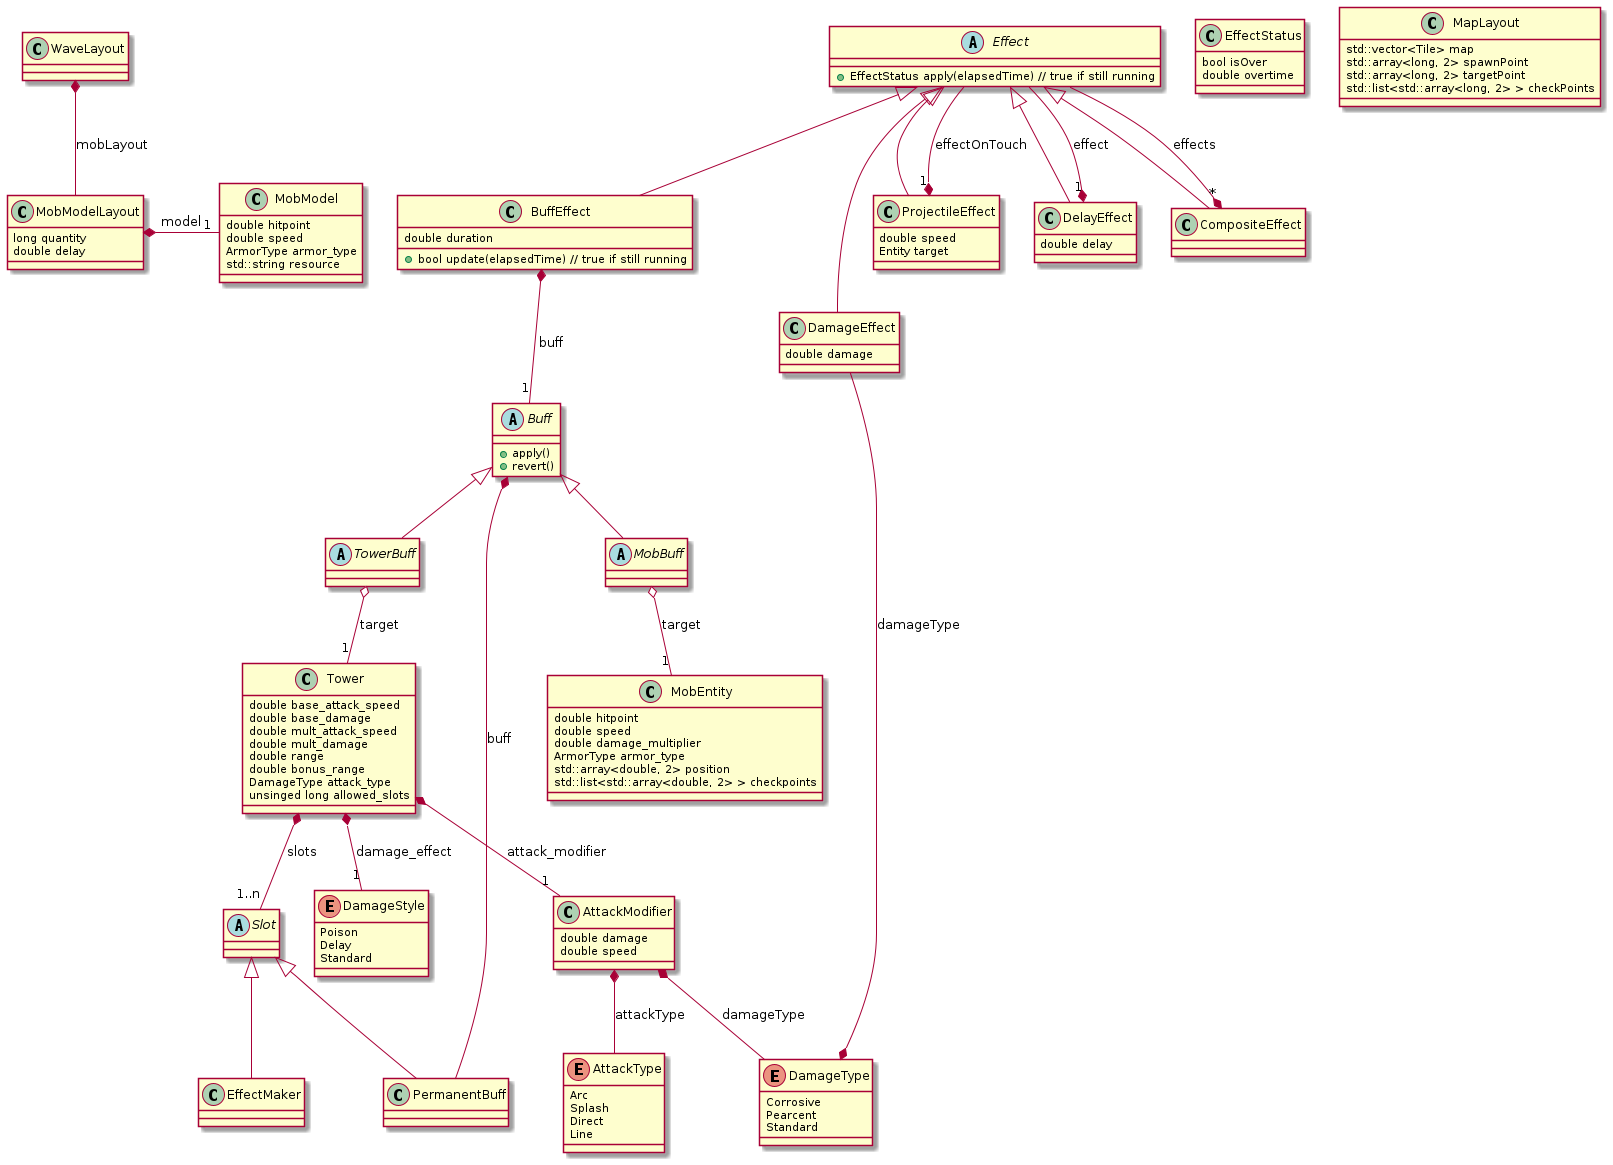
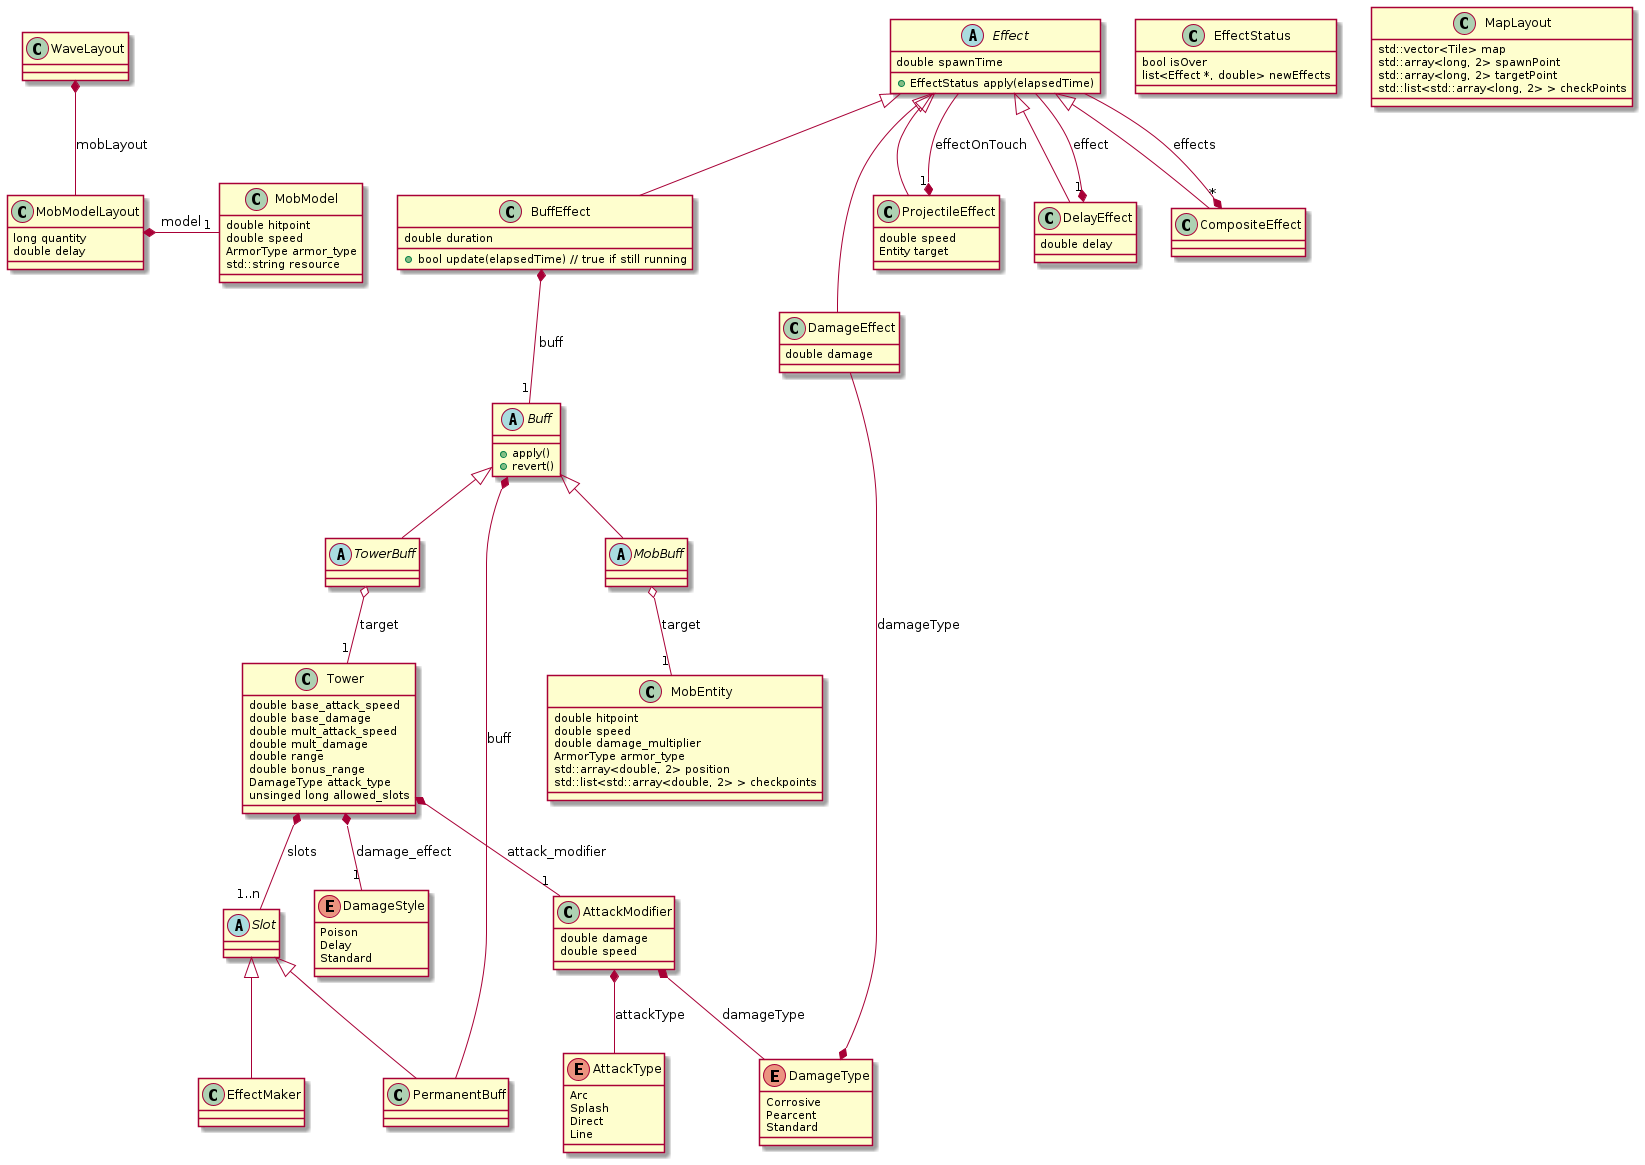
[cells] logic : added bo to prepare attack

diff --git a/src/cells/src/lib/logic/entity/Tower.h b/src/cells/src/lib/logic/entity/Tower.h
@@ -1,0 +1,62 @@
+#pragma once
+
+#include <list>
+
+#include "logic/types/DamageStyle.h"
+#include "logic/types/DamageType.h"
+
+class AttackModifier;
+class Slot;
+
+class Tower
+{
+public:
+	Tower();
+
+	double getBaseAttackSpeed() const { return _baseAttackSpeed; }
+	void setBaseAttackSpeed(double baseAttackSpeed_p) { _baseAttackSpeed = baseAttackSpeed_p; }
+
+	double getMultAttackSpeed() const { return _multAttackSpeed; }
+	void setMultAttackSpeed(double multAttackSpeed_p) { _multAttackSpeed = multAttackSpeed_p; }
+
+	double getBaseDamage() const { return _baseDamage; }
+	void setBaseDamage(double baseDamage_p) { _baseDamage = baseDamage_p; }
+
+	double getMultDamage() const { return _multDamage; }
+	void setMultDamage(double multDamage_p) { _multDamage = multDamage_p; }
+
+	double getRange() const { return _range; }
+	void setRange(double range_p) { _range = range_p; }
+
+	double getBonusRange() const { return _bonusRange; }
+	void setBonusRange(double bonusRange_p) { _bonusRange = bonusRange_p; }
+
+	DamageType getAttackType() const { return _attackType; }
+	void setAttackType(DamageType attackType_p) { _attackType = attackType_p; }
+
+	DamageStyle getDamageEffect() const { return _damageEffect; }
+	void setDamageEffect(DamageStyle damageEffect_p) { _damageEffect = damageEffect_p; }
+
+	unsigned long getMaxSlots() const { return _maxSlots; }
+	void setMaxSlots(unsigned long maxSlots_p) { _maxSlots = maxSlots_p; }
+
+	AttackModifier * getAttackModifier() const { return _attackModifier; }
+	void setAttackModifier(AttackModifier * modifier_p) { _attackModifier = modifier_p; }
+
+	std::list<Slot *> const & getSlots() const { return _slots; }
+	std::list<Slot *> & getSlots() { return _slots; }
+
+protected:
+	double _baseAttackSpeed;
+	double _multAttackSpeed;
+	double _baseDamage;
+	double _multDamage;
+	double _range;
+	double _bonusRange;
+	DamageType _attackType;
+	DamageStyle _damageEffect;
+	unsigned long _maxSlots;
+	AttackModifier * _attackModifier;
+
+	std::list<Slot *> _slots;
+};

diff --git a/src/cells/src/lib/logic/WaveEngine.cpp b/src/cells/src/lib/logic/WaveEngine.cpp
@@ -7,6 +7,7 @@
 #include "layout/MobModelLayout.h"
 #include "wave/MobSpawner.h"
 #include "wave/MobMover.h"
+#include "wave/AttackBuilder.h"
 
 WaveEngine::WaveEngine(LogicEngine &logic_p)
 	: _logic(logic_p)
@@ -14,6 +15,8 @@ WaveEngine::WaveEngine(LogicEngine &logic_p)
 	, _timestamp(0.)
 	, _spawner(nullptr)
 	, _mover(nullptr)
+	, _attack(nullptr)
+	, _spawnOver(false)
 {}
 
 WaveEngine::~WaveEngine()
@@ -33,6 +36,7 @@ void WaveEngine::waveLoop(WaveLayout const &layout_p)
 	_spawner = new MobSpawner(*this, layout_p, *_logic._currentMap);
 	_spawnOver = false;
 	_mover = new MobMover(*this);
+	_attack = new AttackBuilder(*this);
 
 	while(!_logic._quit && !isWaveOver())
 	{
@@ -69,6 +73,7 @@ void WaveEngine::handleFrame(double elapsedTime_p)
 	}
 
 	// Trigger attack
+	_attack->buildAttacks(elapsedTime_p);
 
 	// Resolve effects
 
@@ -83,6 +88,7 @@ void WaveEngine::clearUp()
 	_mobs.clear();
 	delete _spawner;
 	delete _mover;
+	delete _attack;
 }
 
 

diff --git a/src/cells/src/lib/logic/slot/Slot.h b/src/cells/src/lib/logic/slot/Slot.h
@@ -1,0 +1,30 @@
+#pragma once
+
+class Effect;
+class WaveEngine;
+
+class Slot
+{
+public:
+	Slot();
+	virtual ~Slot();
+
+	/// @brief return true iif Slot is of type EffectMaker
+	virtual bool isEffectMaker() const = 0;
+	/// @brief return true iif Slot is of type Buff
+	virtual bool isBuffMaker() const = 0;
+};
+
+class EffectMaker : public Slot
+{
+public:
+	EffectMaker();
+	~EffectMaker();
+
+	/// @brief return true iif Slot is of type EffectMaker
+	virtual bool isEffectMaker() const final;
+	/// @brief return true iif Slot is of type Buff
+	virtual bool isBuffMaker() const final;
+
+	virtual Effect * newEffect(WaveEngine &waveEngien_p) = 0;
+};

diff --git a/src/cells/src/lib/logic/WaveEngine.h b/src/cells/src/lib/logic/WaveEngine.h
@@ -8,6 +8,7 @@
 class LogicEngine;
 struct WaveLayout;
 struct MobModel;
+class AttackBuilder;
 class MobSpawner;
 class MobMover;
 
@@ -28,6 +29,7 @@ public:
 	void despawnMob(MobEntity * entity_p);
 	void moveMob(MobEntity * entity_p, std::array<double,2> pos_p, std::array<double,2> dir_p);
 
+	LogicEngine &getLogic() { return _logic; }
 	PositionalTree<MobEntity> const &getTree() const { return _tree; }
 	PositionalTree<MobEntity> &getTree() { return _tree; }
 
@@ -47,5 +49,6 @@ protected:
 
 	MobSpawner * _spawner;
 	MobMover * _mover;
+	AttackBuilder * _attack;
 	bool _spawnOver;
 };

diff --git a/src/cells/src/lib/logic/effect/Effect.h b/src/cells/src/lib/logic/effect/Effect.h
@@ -1,0 +1,22 @@
+#pragma once
+
+#include <list>
+
+class Effect;
+
+struct EffectStatus
+{
+	/// @brief true of the effect is over
+	bool isOver;
+	/// @brief list of new effects and their time to be handled
+	std::list<std::pair<Effect *, double> > newEffects;
+};
+
+class Effect
+{
+public:
+	Effect();
+
+	/// @brief apply the effect and return the status
+	EffectStatus apply(double elapsedTime_p);
+};

diff --git a/src/cells/src/lib/logic/slot/Slot.cpp b/src/cells/src/lib/logic/slot/Slot.cpp
@@ -1,0 +1,12 @@
+#include "Slot.h"
+
+Slot::Slot() {}
+Slot::~Slot() {}
+
+EffectMaker::EffectMaker() {}
+EffectMaker::~EffectMaker() {}
+
+/// @brief return true iif Slot is of type EffectMaker
+bool EffectMaker::isEffectMaker() const { return true; }
+/// @brief return true iif Slot is of type Buff
+bool EffectMaker::isBuffMaker() const { return false; }

diff --git a/src/cells/src/lib/logic/wave/AttackBuilder.h b/src/cells/src/lib/logic/wave/AttackBuilder.h
@@ -1,0 +1,11 @@
+#pragma once
+
+class AttackBuilder
+{
+public:
+	AttackBuilder(WaveEngine &waveEngine_p) {}
+
+	void buildAttacks(double elapsedTime_p) {}
+protected:
+
+};

diff --git a/src/cells/src/lib/logic/types/DamageStyle.h b/src/cells/src/lib/logic/types/DamageStyle.h
@@ -1,0 +1,8 @@
+#pragma once
+
+enum class DamageStyle
+{
+	Poison,
+	Delay,
+	Standard
+};

diff --git a/src/cells/src/lib/logic/effect/Effect.cpp b/src/cells/src/lib/logic/effect/Effect.cpp
@@ -1,0 +1,3 @@
+#include "Effect.h"
+
+Effect::Effect() {}

diff --git a/src/cells/src/lib/logic/entity/Tower.cpp b/src/cells/src/lib/logic/entity/Tower.cpp
@@ -1,0 +1,4 @@
+#include "Tower.h"
+
+Tower::Tower()
+{}
